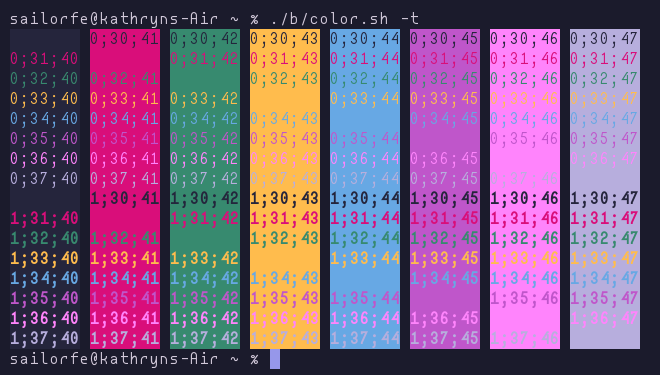
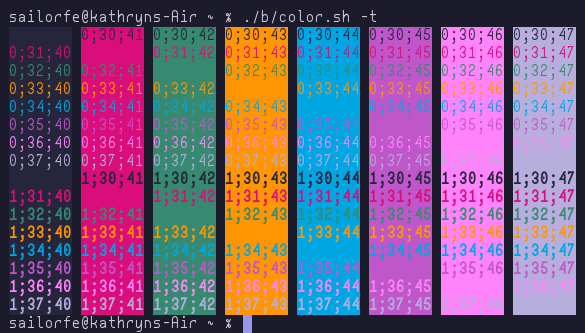
yellow blue on dark

diff --git a/README.md b/README.md
@@ -15,8 +15,8 @@
 | black        | `#4d3a5a` | `#25253c`  |
 | red          | `#ff0083` | `#d90e7a`  |
 | green        | `#00a294` | `#378a6f`  |
-| yellow       | `#ec8300` | `#ffbc4d`  |
-| blue         | `#0c1eb8` | `#67a8e4`  |
+| yellow       | `#ec8300` | `#ff9500`  |
+| blue         | `#0c1eb8` | `#00a6e2`  |
 | magenta      | `#78008b` | `#bf56ca`  |
 | cyan         | `#ff69d3` | `#ff84fc`  |
 | white        | `#fff1fb` | `#b7aedd`  |
@@ -66,19 +66,15 @@ config {
     color_scheme: "Moon Queen Serenity",
 }
 ```
-or something fancier, like timed switching. I scavenged [abzcoding](https://github.com/abzcoding/wezterm/blob/main/wezterm.lua)'s
-function for [my config](https://codeberg.org/sailorfe/dotfiles/raw/commit/8dc47502196d173b4d0df908c59a43258359ba64/wezterm.lua):
+or something fancier, like timed switching. Mine looks Like:
 
 ```lua
 local function get_theme()
     local _time = os.date("*t")
-    if _time.hour >= 1 and _time.hour < 9 then
-        return "Moon Queen Nehellenia"
-    elseif _time.hour >= 9 and _time.hour < 17 then
+    if _time.hour >= 9 and _time.hour < 16 then
         return "Moon Queen Serenity"
-    elseif _time.hour >= 17 and _time.hour < 24 or _time.hour >= 0 and _time.hour < 1 then
-        return "Moon Queen Nehellenia"
     end
+    return "Moon Queen Nehellenia"
 end
 ```
 
